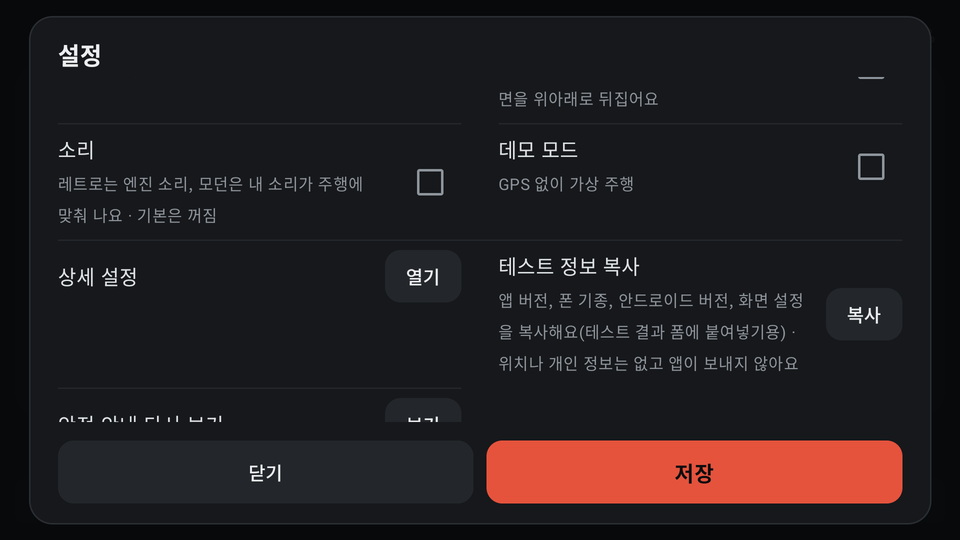
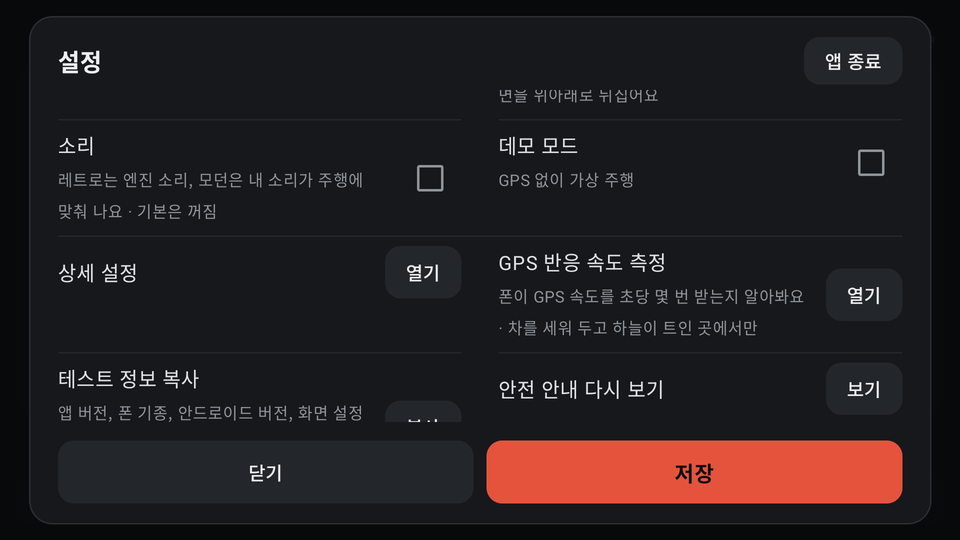
ExCluster 1.23: user guide (Exit app, GPS response check, match car speedometer as a ratio at 100 km/h, GPS-lost digits, My sound note; easy settings screenshots)

diff --git a/excluster/guide-ko/index.html b/excluster/guide-ko/index.html
@@ -25,7 +25,7 @@ p>em:only-child{display:block;text-align:center;color:var(--sub);font-size:.9rem
 <main>
 <nav><a href="../../">wavullet</a><a href="../">ExCluster</a><a href="../guide/">English</a><a href="../privacy-ko/">개인정보처리방침</a></nav>
 <h1>ExCluster 사용 설명서</h1>
-<p>스마트폰을 클래식 자동차 계기판처럼 쓰는 앱입니다. 이 설명서는 버전 1.22 기준입니다. 설정 화면의 글자와 같은 이름으로 적었으니 화면을 보면서 찾아 보세요.</p>
+<p>스마트폰을 클래식 자동차 계기판처럼 쓰는 앱입니다. 이 설명서는 버전 1.23 기준입니다. 설정 화면의 글자와 같은 이름으로 적었으니 화면을 보면서 찾아 보세요.</p>
 <blockquote>
 <p><strong>안전 먼저.</strong> 폰은 시야나 에어백을 가리지 않는 곳에, 급제동이나 요철에도 떨어지지 않게 단단히 고정하세요. 운전 중에는 조작하지 말고, 설정은 정차 중에 바꾸세요.</p>
 </blockquote>
@@ -43,6 +43,7 @@ p>em:only-child{display:block;text-align:center;color:var(--sub);font-size:.9rem
 <em>모던(가로): 큰 디지털 숫자와 속도 바. 구역마다 따로 옮길 수 있습니다.</em></p>
 <ul>
 <li><strong>설정 열기:</strong> 오른쪽 위 톱니 아이콘을 누르거나 계기판을 0.8초 길게 누릅니다.</li>
+<li><strong>앱 종료:</strong> 계기판에서 뒤로 가기를 2초 안에 두 번 누르거나(첫 번째에 안내 문구가 잠깐 나옵니다) 설정 맨 위의 <strong>앱 종료</strong>를 누릅니다. 기록 중인 경로는 먼저 저장됩니다.</li>
 <li><strong>트립 A·B 거리 0으로:</strong> 트립 숫자를 1.5초 길게 누릅니다.</li>
 <li><strong>GPS 상태:</strong> 초록색 "GPS"는 정상, "EST"는 터널 등에서 GPS가 끊겨 센서로 속도를 추정 중이라는 뜻입니다.</li>
 <li>가상 RPM과 변속 표시는 속도에 맞춰 움직이는 장식이고, 실제 차의 값과는 무관합니다.</li>
@@ -50,10 +51,10 @@ p>em:only-child{display:block;text-align:center;color:var(--sub);font-size:.9rem
 </ul>
 <h2>3. 쉬운 설정</h2>
 <p>설정 화면 첫 페이지입니다.</p>
-<p><img alt="쉬운 설정: 테마, 언어, 부제 규칙, 차량번호 끝자리, 주말 제외, HUD 모드" src="img/settings.png" />
-<em>쉬운 설정의 첫 부분입니다.</em></p>
-<p><img alt="쉬운 설정 아랫부분: 소리, 데모 모드, 상세 설정, 테스트 정보 복사" src="img/settings2.png" />
-<em>아래로 내리면 소리, 데모 모드, 상세 설정 열기, 안전 안내 다시 보기(더 아래), 테스트 정보 복사가 있습니다.</em></p>
+<p><img alt="쉬운 설정: 앱 종료, 테마, 언어, 부제 규칙, 차량번호 끝자리, 주말 제외, HUD 모드" src="img/settings.png" />
+<em>쉬운 설정의 첫 부분입니다. 오른쪽 위에 <strong>앱 종료</strong>가 있습니다.</em></p>
+<p><img alt="쉬운 설정 아랫부분: 소리, 데모 모드, 상세 설정, GPS 반응 속도 측정, 테스트 정보 복사" src="img/settings2.png" />
+<em>아래로 내리면 소리, 데모 모드, 상세 설정 열기, GPS 반응 속도 측정, 테스트 정보 복사, 안전 안내 다시 보기가 있습니다.</em></p>
 <div class="table-wrap"><table>
 <thead>
 <tr>
@@ -97,6 +98,10 @@ p>em:only-child{display:block;text-align:center;color:var(--sub);font-size:.9rem
 <tr>
 <td>상세 설정 열기</td>
 <td>아래 4번의 세부 설정으로 갑니다</td>
+</tr>
+<tr>
+<td>GPS 반응 속도 측정</td>
+<td>내 폰이 GPS 속도를 초당 몇 번 받는지 알아봅니다(약 15~30초). 하늘이 트인 곳에 차를 세운 뒤 눌러 주세요. 달리는 중에는 시작되지 않습니다. 대부분의 폰은 초당 1번이고, 5번 이상이면 <strong>빠른 GPS 사용</strong>을 켤 수 있습니다(배터리와 발열이 조금 늘어납니다). 정지 상태에서 재므로 달리는 중과는 조금 다를 수 있습니다</td>
 </tr>
 <tr>
 <td>안전 안내 다시 보기</td>
@@ -164,15 +169,7 @@ p>em:only-child{display:block;text-align:center;color:var(--sub);font-size:.9rem
 <tbody>
 <tr>
 <td>계기판 맞춤 보정</td>
-<td>차 계기판은 실제 속도보다 높게 표시돼서, 앱 표시를 계기판에 맞춥니다. 표시만 바뀌고 트립과 기록은 실제 속도입니다</td>
-</tr>
-<tr>
-<td>보정 기준 속도</td>
-<td>이 속도 이상에서는 보정값 전체를 더하고, 그 아래는 0 km/h부터 직선으로 늘립니다</td>
-</tr>
-<tr>
-<td>타이어 / 타이어 규격</td>
-<td>가상 RPM 계산용입니다. 타이어 옆면 표기(예: 245/45R19)를 입력합니다</td>
+<td>차 계기판은 실제보다 조금 높게 표시돼서, 앱 표시를 거기에 맞춥니다. <strong>고르는 값은 100 km/h일 때의 차이</strong>입니다. +2로 두면 실제 100 km/h에서 앱이 102를 보여 줍니다. 다른 속도에서는 같은 비율(+2는 약 2%)로 맞춰서, 실제 50 km/h에서는 약 51, 160 km/h에서는 약 163을 보여 주고 멈춰 있으면 0입니다. 100 km/h 근처에서 앱과 차 계기판을 비교해서 값을 고르세요. 표시만 바뀌고 트립과 기록은 실제 속도입니다</td>
 </tr>
 <tr>
 <td>변속기</td>
@@ -183,8 +180,8 @@ p>em:only-child{display:block;text-align:center;color:var(--sub);font-size:.9rem
 <td>출발·제동 때 GPS 속도 변화로 전방을 찾아서 폰을 어떤 각도로 놓아도 가속을 읽습니다. 항상 켜져 있고 "학습 중" 또는 "학습 완료"로 상태만 보여 줍니다. 폰을 다른 각도로 옮기면 저절로 다시 배웁니다. 배우기 전에는 세워 둔 폰(HUD 모드면 눕힌 폰) 기준으로 읽습니다</td>
 </tr>
 <tr>
-<td>GPS 끊기면 속도 숫자 글리치</td>
-<td>터널에서 센서 추정값이라는 것을 색 번짐과 짧은 화면 찢김으로 알려 줍니다</td>
+<td>GPS 끊기면 속도 숫자 표시</td>
+<td>터널에서 숫자가 센서 추정값임을 알려 줍니다. <strong>글리치</strong>(기본): 크게 흔들리고 색이 번지며, 10초 넘게 끊기면 조금 더 강해집니다(숫자는 그대로 보입니다). <strong>깜박임</strong>: 숫자와 "- -"가 1초에 한 번 번갈아 나옵니다. 끌 수도 있습니다</td>
 </tr>
 </tbody>
 </table></div>
@@ -241,7 +238,7 @@ p>em:only-child{display:block;text-align:center;color:var(--sub);font-size:.9rem
 </tr>
 <tr>
 <td>내 소리 고르기</td>
-<td>내가 가진 음원의 짧은 구간을 속도와 가속에 따라 변하는 소리로 씁니다</td>
+<td>내가 가진 음원의 짧은 구간을 속도와 가속에 따라 변하는 소리로 씁니다. 음원의 저작권은 사용자에게 있습니다. 앱 화면을 녹화해 공개할 때 타인의 음원이 들어가면 저작권 문제가 생길 수 있으니 직접 만든 소리나 사용이 허락된 소리를 쓰세요. 공개 영상에는 번호판, 집 주변, 주행 경로가 보일 수 있습니다</td>
 </tr>
 <tr>
 <td>소리 크기</td>

diff --git a/excluster/guide/index.html b/excluster/guide/index.html
@@ -25,7 +25,7 @@ p>em:only-child{display:block;text-align:center;color:var(--sub);font-size:.9rem
 <main>
 <nav><a href="../../">wavullet</a><a href="../">ExCluster</a><a href="../guide-ko/">한국어</a><a href="../privacy/">Privacy policy</a></nav>
 <h1>ExCluster user guide</h1>
-<p>ExCluster turns your phone into a classic car instrument cluster. This guide is for version 1.22. Items are named exactly as on the settings screens, so you can find them as you read.</p>
+<p>ExCluster turns your phone into a classic car instrument cluster. This guide is for version 1.23. Items are named exactly as on the settings screens, so you can find them as you read.</p>
 <blockquote>
 <p><strong>Safety first.</strong> Mount the phone where it does not block your view or an airbag, and secure it so it cannot fall or slide when braking or on bumps. Do not operate the app while driving; change settings only when stopped.</p>
 </blockquote>
@@ -43,6 +43,7 @@ p>em:only-child{display:block;text-align:center;color:var(--sub);font-size:.9rem
 <em>Modern (landscape): a big digital number and a speed bar. Every zone can be moved separately.</em></p>
 <ul>
 <li><strong>Open the settings:</strong> tap the gear icon at the top right, or press and hold the cluster for 0.8 s.</li>
+<li><strong>Exit the app:</strong> press Back twice within 2 seconds on the cluster (a short message appears after the first press), or use <strong>Exit app</strong> at the top of the settings. A route being recorded is saved first.</li>
 <li><strong>Reset trip A or B:</strong> press and hold the trip number for 1.5 s.</li>
 <li><strong>GPS state:</strong> a green "GPS" is normal; "EST" means GPS dropped out (for example in a tunnel) and the speed is being estimated from the motion sensors.</li>
 <li>The virtual RPM and gear indicator follow your speed for the feel of a classic cluster; they are unrelated to the real car.</li>
@@ -50,10 +51,10 @@ p>em:only-child{display:block;text-align:center;color:var(--sub);font-size:.9rem
 </ul>
 <h2>3. Easy settings</h2>
 <p>The first page of the settings.</p>
-<p><img alt="Easy settings: theme, language, driving rotation, plate number, weekends, HUD mode" src="img/settings.png" />
-<em>The top of the easy settings.</em></p>
-<p><img alt="Easy settings, lower part: Sound, Demo mode, Detailed settings, Copy test info" src="img/settings2.png" />
-<em>Further down: Sound, Demo mode, Detailed settings, Read the safety notice again (below), Copy test info.</em></p>
+<p><img alt="Easy settings: Exit app, theme, language, driving rotation, plate number, weekends, HUD mode" src="img/settings.png" />
+<em>The top of the easy settings, with <strong>Exit app</strong> at the top right.</em></p>
+<p><img alt="Easy settings, lower part: Sound, Demo mode, Detailed settings, GPS response check, Copy test info" src="img/settings2.png" />
+<em>Further down: Sound, Demo mode, Detailed settings, GPS response check, Copy test info, Read the safety notice again.</em></p>
 <div class="table-wrap"><table>
 <thead>
 <tr>
@@ -97,6 +98,10 @@ p>em:only-child{display:block;text-align:center;color:var(--sub);font-size:.9rem
 <tr>
 <td>Detailed settings</td>
 <td>Opens section 4</td>
+</tr>
+<tr>
+<td>GPS response check</td>
+<td>Finds out how many speed values per second your phone receives (about 15 to 30 seconds). Park the car under open sky first; it will not start while moving. Most phones give 1 per second; if yours gives 5 or more, you can switch on <strong>Use fast GPS</strong> (slightly more battery and heat). Measured while standing still, so a moving car can differ a little</td>
 </tr>
 <tr>
 <td>Read the safety notice again</td>
@@ -164,15 +169,7 @@ p>em:only-child{display:block;text-align:center;color:var(--sub);font-size:.9rem
 <tbody>
 <tr>
 <td>Match car speedometer</td>
-<td>Car speedometers read high, so this lifts the app's display to match. Only the display changes; trips and logs use the true speed</td>
-</tr>
-<tr>
-<td>Offset full from</td>
-<td>At and above this speed the whole offset is added; below it grows linearly from 0 km/h</td>
-</tr>
-<tr>
-<td>Tire / Tire size</td>
-<td>For the virtual RPM. Enter the sidewall marking, for example 245/45R19</td>
+<td>Car speedometers read a little high, so this lifts the app's display to match. <strong>The value you pick is the difference at 100 km/h</strong>: with +2, the app shows 102 when you really go 100. At other speeds the same percentage is used (+2 is about 2 %), so it shows about 51 at a true 50 and about 163 at 160, and 0 when you stand still. Pick the value by comparing the app with your car's speedometer at about 100 km/h. Only the display changes; trips and logs use the true speed</td>
 </tr>
 <tr>
 <td>Gearbox</td>
@@ -183,8 +180,8 @@ p>em:only-child{display:block;text-align:center;color:var(--sub);font-size:.9rem
 <td>Finds "forward" from GPS speed changes when you pull away or brake, so any phone angle works. Always on; it only shows its state, "Learning" or "Learned". Move the phone to another angle and it learns again by itself. Until it has learned, it reads the phone as standing upright (lying flat in HUD mode)</td>
 </tr>
 <tr>
-<td>Glitch on speed when GPS drops</td>
-<td>In tunnels the number is a sensor estimate, shown with colour fringing and brief tears</td>
+<td>Speed digits when GPS drops</td>
+<td>In tunnels the number is a sensor estimate. <strong>Glitch</strong> (default): big colour fringing and tears, and a little stronger after more than 10 s without GPS (the number stays). <strong>Blink</strong>: the number and "- -" take turns once a second. Or off</td>
 </tr>
 </tbody>
 </table></div>
@@ -241,7 +238,7 @@ p>em:only-child{display:block;text-align:center;color:var(--sub);font-size:.9rem
 </tr>
 <tr>
 <td>Choose my sound</td>
-<td>Uses a short part of an audio file you choose, changing with speed and acceleration</td>
+<td>Uses a short part of an audio file you choose, changing with speed and acceleration. You own the rights to the audio you use: if you record the app screen and publish it, someone else's music in it can cause copyright problems, so use sounds you made or are allowed to use. Public videos can also show licence plates, your surroundings and your route</td>
 </tr>
 <tr>
 <td>Volume</td>
